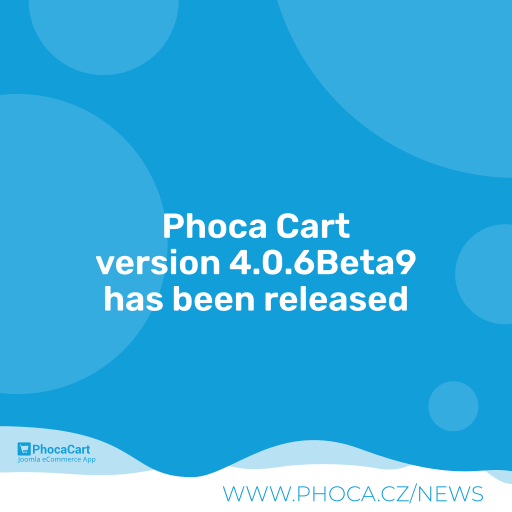
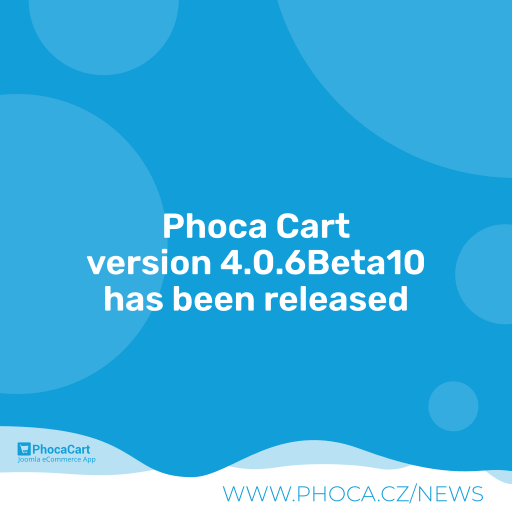
4.0.6Beta10

Changed region(s): [[0.1562, 0.4688, 0.8438, 0.5625]]

diff --git a/media/css/main.css b/media/css/main.css
@@ -966,7 +966,7 @@ table.ph-comparison-table tr td.ph-middle {
     position: absolute;
     top: 0.3em;
     right: 0.2em;
-    width: 100%;
+    /*width: 100%;*/
 }
 
 .ph-manufacturer-box,

diff --git a/README.MD b/README.MD
@@ -118,7 +118,7 @@ Phoca Cart is e-commerce extension - powerful shopping cart for Joomla! CMS. Pho
 
 ## Version (Joomla! 4.x)
 
-4.0.6Beta9
+4.0.6Beta10
 
 
 
